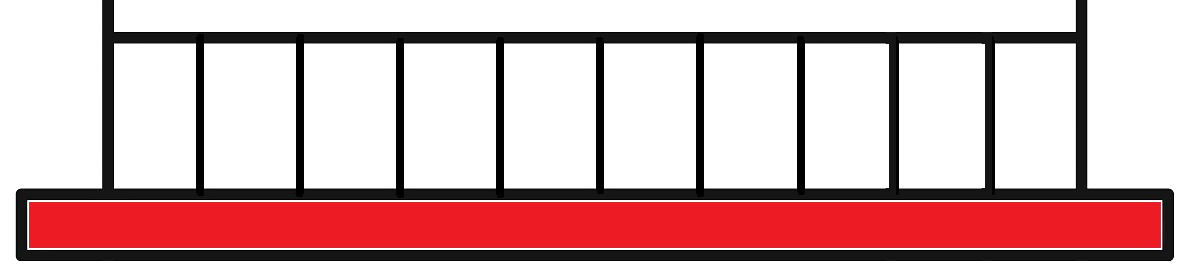
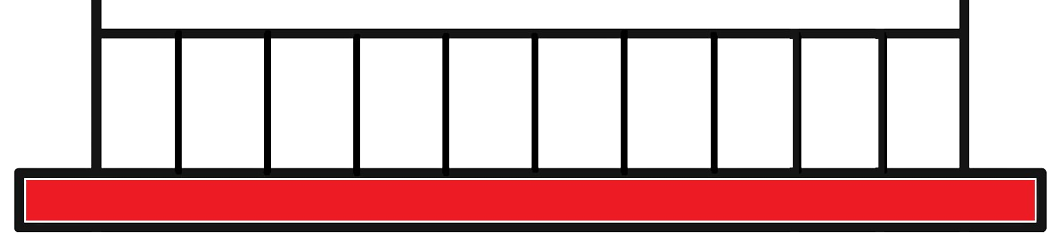
Dificuldades media e dificil

diff --git a/src/hardScripts.js b/src/hardScripts.js
@@ -1,4 +1,4 @@
-const colunasTabela = 9;
+const colunasTabela = 10;
 const linhasTabela = 4;
 const elementosTabela = [];
 let opcaoSelecionada = "";
@@ -48,8 +48,8 @@ function criarTabela() {
 function renderizaVetor() {
     for (let i = 0; i < colunasTabela; i++) {
         do {
-            const random = Math.floor(Math.random() * 10);
-            if (random > 0 && (vetor.find(item => item.valor === random) === undefined) && random < 10) {
+            const random = Math.floor(Math.random() * 11);
+            if (random > 0 && (vetor.find(item => item.valor === random) === undefined) && random < 11) {
                 var elemento = { valor: random, imagem: null, widImg: 0, heiImg: 0 };
                 switch (random) {
                     case 1:
@@ -97,6 +97,11 @@ function renderizaVetor() {
                         elemento.widImg = 44;
                         elemento.heiImg = 45;
                         break;
+                    case 10:
+                        elemento.imagem = "img/10jackfruit.png";
+                        elemento.widImg = 48;
+                        elemento.heiImg = 53;
+                        break;
                     default:
                         break;
 
@@ -131,40 +136,32 @@ function desenhaTabela() {
     html += "</table>";
 
     document.querySelector("#elemento").innerHTML = html;
-    if (ultimoIndiceComparado < 3) {
-        document.querySelector("#" + CSS.escape(0)).classList.add("esquerda");
-        document.querySelector("#" + CSS.escape(1)).classList.add("esquerda");
-        document.querySelector("#" + CSS.escape(2)).classList.add("direita");
-    } else if (ultimoIndiceComparado < 5) {
-        document.querySelector("#" + CSS.escape(3)).classList.add("esquerda");
-        document.querySelector("#" + CSS.escape(4)).classList.add("direita");
-    } else if (ultimoIndiceComparado < 7) {
-        document.querySelector("#" + CSS.escape(5)).classList.add("esquerda");
-        document.querySelector("#" + CSS.escape(6)).classList.add("direita");
-    } else if (ultimoIndiceComparado < 9) {
-        document.querySelector("#" + CSS.escape(7)).classList.add("esquerda");
-        document.querySelector("#" + CSS.escape(8)).classList.add("direita");
-    } else if (ultimoIndiceComparado < 14) {
-        document.querySelector("#" + CSS.escape(9)).classList.add("esquerda");
+    if (ultimoIndiceComparado < 10) {
+        document.querySelector("#" + CSS.escape(ultimoIndiceComparado)).classList.add("esquerda");
+        document.querySelector("#" + CSS.escape(ultimoIndiceComparado + 1)).classList.add("direita");
+    } else if (ultimoIndiceComparado < 15) {
         document.querySelector("#" + CSS.escape(10)).classList.add("esquerda");
         document.querySelector("#" + CSS.escape(11)).classList.add("esquerda");
-        document.querySelector("#" + CSS.escape(12)).classList.add("direita");
+        document.querySelector("#" + CSS.escape(12)).classList.add("esquerda");
         document.querySelector("#" + CSS.escape(13)).classList.add("direita");
-    } else if (ultimoIndiceComparado < 18) {
-        document.querySelector("#" + CSS.escape(14)).classList.add("esquerda");
+        document.querySelector("#" + CSS.escape(14)).classList.add("direita");
+    } else if (ultimoIndiceComparado < 20) {
         document.querySelector("#" + CSS.escape(15)).classList.add("esquerda");
-        document.querySelector("#" + CSS.escape(16)).classList.add("direita");
-        document.querySelector("#" + CSS.escape(17)).classList.add("direita");
-    } else if (ultimoIndiceComparado < 27) {
-        document.querySelector("#" + CSS.escape(18)).classList.add("esquerda");
-        document.querySelector("#" + CSS.escape(19)).classList.add("esquerda");
+        document.querySelector("#" + CSS.escape(16)).classList.add("esquerda");
+        document.querySelector("#" + CSS.escape(17)).classList.add("esquerda");
+        document.querySelector("#" + CSS.escape(18)).classList.add("direita");
+        document.querySelector("#" + CSS.escape(19)).classList.add("direita");
+    } else if (ultimoIndiceComparado < 30) {
         document.querySelector("#" + CSS.escape(20)).classList.add("esquerda");
         document.querySelector("#" + CSS.escape(21)).classList.add("esquerda");
         document.querySelector("#" + CSS.escape(22)).classList.add("esquerda");
-        document.querySelector("#" + CSS.escape(23)).classList.add("direita");
-        document.querySelector("#" + CSS.escape(24)).classList.add("direita");
+        document.querySelector("#" + CSS.escape(23)).classList.add("esquerda");
+        document.querySelector("#" + CSS.escape(24)).classList.add("esquerda");
         document.querySelector("#" + CSS.escape(25)).classList.add("direita");
         document.querySelector("#" + CSS.escape(26)).classList.add("direita");
+        document.querySelector("#" + CSS.escape(27)).classList.add("direita");
+        document.querySelector("#" + CSS.escape(28)).classList.add("direita");
+        document.querySelector("#" + CSS.escape(29)).classList.add("direita");
     } else {
         document.querySelectorAll("td").classList.remove("esquerda");
         document.querySelectorAll("td").classList.remove("direita");
@@ -195,22 +192,18 @@ function recuperaMenorValor(vetor) {
 }
 
 function efetuaPrimeiraRodadaComparativa() {
-    if (ultimoIndiceComparado == 0) {
-        esquerda = [elementosTabela[ultimoIndiceComparado], elementosTabela[ultimoIndiceComparado + 1]];
-        direita = [elementosTabela[ultimoIndiceComparado + 2]];
-    } else if (((ultimoIndiceComparado % 2) != 0 && ultimoIndiceComparado > 2)) {
-        esquerda = [elementosTabela[ultimoIndiceComparado]];
-        direita = [elementosTabela[ultimoIndiceComparado + 1]];
-    }
-    if (opcaoSelecionada == comparaValores(esquerda, direita)) {
+    esquerda = elementosTabela[ultimoIndiceComparado];
+    direita = elementosTabela[ultimoIndiceComparado + 1];
+
+    if (opcaoSelecionada == comparaValores([esquerda], [direita])) {
         if (opcaoSelecionada == "E") {
-            elementosTabela[ultimoIndiceComparado + colunasTabela] = buscaMenorNoVetor(esquerda);
-            removeMenorDoArray(esquerda);
+            elementosTabela[ultimoIndiceComparado + colunasTabela] = esquerda;
+            elementosTabela[ultimoIndiceComparado + colunasTabela + 1] = direita;
         } else {
-            elementosTabela[ultimoIndiceComparado + colunasTabela] = buscaMenorNoVetor(direita);
-            removeMenorDoArray(direita);
+            elementosTabela[ultimoIndiceComparado + colunasTabela] = direita;
+            elementosTabela[ultimoIndiceComparado + colunasTabela + 1] = esquerda;
         }
-        ultimoIndiceComparado = ultimoIndiceComparado + 1;
+        ultimoIndiceComparado = ultimoIndiceComparado + 2;
         document.querySelector("#" + CSS.escape(ultimoIndiceComparado)).classList.remove("esquerda");
         document.querySelector("#" + CSS.escape(ultimoIndiceComparado + 1)).classList.remove("direita");
         pontuacao += 5;
@@ -222,12 +215,12 @@ function efetuaPrimeiraRodadaComparativa() {
 }
 
 function efetuaSegundaRodadaComparativa() {
-    if (ultimoIndiceComparado == 9) {
+    if (ultimoIndiceComparado == 10) {
         esquerda = [elementosTabela[ultimoIndiceComparado], elementosTabela[ultimoIndiceComparado + 1], elementosTabela[ultimoIndiceComparado + 2]];
         direita = [elementosTabela[ultimoIndiceComparado + 3], elementosTabela[ultimoIndiceComparado + 4]];
-    } else if (ultimoIndiceComparado == 14) {
-        esquerda = [elementosTabela[ultimoIndiceComparado], elementosTabela[ultimoIndiceComparado + 1]];
-        direita = [elementosTabela[ultimoIndiceComparado + 2], elementosTabela[ultimoIndiceComparado + 3]];
+    } else if (ultimoIndiceComparado == 15) {
+        esquerda = [elementosTabela[ultimoIndiceComparado], elementosTabela[ultimoIndiceComparado + 1], elementosTabela[ultimoIndiceComparado + 2]];
+        direita = [elementosTabela[ultimoIndiceComparado + 3], elementosTabela[ultimoIndiceComparado + 4]];
     }
     if (opcaoSelecionada == comparaValores(esquerda, direita)) {
         if (opcaoSelecionada == "E") {
@@ -251,9 +244,9 @@ function efetuaSegundaRodadaComparativa() {
 }
 
 function efetuaTerceiraRodadaComparativa() {
-    if (ultimoIndiceComparado == 18) {
+    if (ultimoIndiceComparado == 20) {
         esquerda = [elementosTabela[ultimoIndiceComparado], elementosTabela[ultimoIndiceComparado + 1], elementosTabela[ultimoIndiceComparado + 2], elementosTabela[ultimoIndiceComparado + 3], elementosTabela[ultimoIndiceComparado + 4]];
-        direita = [elementosTabela[ultimoIndiceComparado + 5], elementosTabela[ultimoIndiceComparado + 6], elementosTabela[ultimoIndiceComparado + 7], elementosTabela[ultimoIndiceComparado + 8]];
+        direita = [elementosTabela[ultimoIndiceComparado + 5], elementosTabela[ultimoIndiceComparado + 6], elementosTabela[ultimoIndiceComparado + 7], elementosTabela[ultimoIndiceComparado + 8], elementosTabela[ultimoIndiceComparado + 9]];
     }
     if (opcaoSelecionada == comparaValores(esquerda, direita)) {
         if (opcaoSelecionada == "E") {
@@ -290,13 +283,13 @@ function chacoalhaTela() {
 
 function escolheOpcao(opcao) {
     opcaoSelecionada = opcao;
-    if (ultimoIndiceComparado < 9) {
+    if (ultimoIndiceComparado < 10) {
         desenhaTabela();
         efetuaPrimeiraRodadaComparativa();
-    } else if (ultimoIndiceComparado < 18) {
+    } else if (ultimoIndiceComparado < 20) {
         desenhaTabela();
         efetuaSegundaRodadaComparativa();
-    } else if (ultimoIndiceComparado < 27) {
+    } else if (ultimoIndiceComparado < 30) {
         desenhaTabela();
         efetuaTerceiraRodadaComparativa();
     }

diff --git a/src/hardStyles.css b/src/hardStyles.css
@@ -1,0 +1,163 @@
+body {
+    background-image: url("img/bgSortingGame.png");
+    background-size: cover;
+}
+
+.botao-direita {
+    border: 0;
+    line-height: 2.5;
+    padding: 0 20px;
+    font-size: 1rem;
+    text-align: center;
+    color: #fff;
+    text-shadow: 1px 1px 1px #000;
+    border-radius: 10px;
+    background-color: rgba(220, 0, 0, 1);
+    background-image: linear-gradient(to top left, rgba(0, 0, 0, .2), rgba(0, 0, 0, .2) 30%, rgba(0, 0, 0, 0));
+    box-shadow: inset 2px 2px 3px rgba(255, 255, 255, .6), inset -2px -2px 3px rgba(0, 0, 0, .6);
+}
+
+.botao-direita:hover {
+    background-color: rgba(255, 0, 0, 1);
+}
+
+.botao-direita:active {
+    box-shadow: inset -2px -2px 3px rgba(255, 255, 255, .6), inset 2px 2px 3px rgba(0, 0, 0, .6);
+}
+
+.botao-esquerda {
+    border: 0;
+    line-height: 2.5;
+    padding: 0 20px;
+    font-size: 1rem;
+    text-align: center;
+    color: #fff;
+    text-shadow: 1px 1px 1px #000;
+    border-radius: 10px;
+    background-color: rgba(0, 120, 0, 1);
+    background-image: linear-gradient(to top left, rgba(0, 0, 0, .2), rgba(0, 0, 0, .2) 30%, rgba(0, 0, 0, 0));
+    box-shadow: inset 2px 2px 3px rgba(255, 255, 255, .6), inset -2px -2px 3px rgba(0, 0, 0, .6);
+}
+
+.botao-esquerda:hover {
+    background-color: rgba(0, 155, 0, 1);
+}
+
+.botao-esquerda:active {
+    box-shadow: inset -2px -2px 3px rgba(255, 255, 255, .6), inset 2px 2px 3px rgba(0, 0, 0, .6);
+}
+
+table {
+    left: 65px;
+    top: 160px;
+    border-collapse: collapse;
+    /* border: 1px solid black; */
+    position: absolute;
+    border-collapse: separate;
+    border-spacing: 0px 51px;
+    z-index: -1;
+}
+
+table.tr {
+    margin-top: 100px;
+}
+
+td {
+    width: 48px;
+    height: 82px;
+    /* border: 1px solid black; */
+    text-align: center;
+    vertical-align: center;
+    font-size: 18px;
+    position: relative;
+    background-color: white;
+}
+
+.pixel-index {
+    font-size: 10px;
+    display: inline-block;
+    position: absolute;
+    top: 2px;
+    right: 2px;
+    color: #777;
+}
+
+td.pixel {
+    width: 4px;
+    height: 4px;
+    border: 0;
+}
+
+.esquerda {
+    background-color: #c4fddf;
+}
+
+.direita {
+    background-color: #f8c2bc;
+}
+
+#jogo.tremendo {
+    animation: shake 0.82s cubic-bezier(.36, .07, .19, .97) both;
+    transform: translate3d(0, 0, 0);
+    backface-visibility: hidden;
+    perspective: 1000px;
+}
+
+@keyframes shake {
+    10%,
+    90% {
+        transform: translate3d(-1px, 0, 0);
+    }
+    20%,
+    80% {
+        transform: translate3d(2px, 0, 0);
+    }
+    30%,
+    50%,
+    70% {
+        transform: translate3d(-4px, 0, 0);
+    }
+    40%,
+    60% {
+        transform: translate3d(4px, 0, 0);
+    }
+}
+
+.cabecalhoPrateleira {
+    background-image: url("img/headerPrateleiraDificil.png");
+    width: 614px;
+    height: 189px;
+    background-size: cover;
+}
+
+.linhaPrateleira {
+    background-image: url("img/linhaPrateleiraDificil.png");
+    width: 614px;
+    height: 131px;
+    background-size: cover;
+}
+
+.rodapePrateleira {
+    background-image: url("img/rodapePrateleiraDificil.png");
+    width: 620;
+    height: 102px;
+    background-size: cover;
+}
+
+.prateleira {
+    position: absolute;
+}
+
+#resposta {
+    position: absolute;
+    top: 1500px;
+    left: 400px;
+}
+
+#pontuacao {
+    position: absolute;
+    top: 760px;
+    left: 200px;
+    color: white;
+    font-size: 25px;
+}

diff --git a/src/hard.html b/src/hard.html
@@ -1,0 +1,32 @@
+<html>
+
+<head>
+    <title>Sorting Game - Médio</title>
+    <link rel="stylesheet" href="hardStyles.css">
+</head>
+
+<body>
+    <div class="prateleira">
+        <div class="cabecalhoPrateleira"></div>
+        <div class="linhaPrateleira"></div>
+        <div class="linhaPrateleira"></div>
+        <div class="linhaPrateleira"></div>
+        <div class="linhaPrateleira"></div>
+        <div class="rodapePrateleira"></div>
+    </div>
+    <div id="jogo">
+        <div id="elemento"></div>
+        <!-- <div id="resposta">
+            <input class="botao-esquerda" type="button" value="Esquerda" onclick="escolheOpcao('E')">
+            <input class="botao-direita" type="button" value="Direita" onclick="escolheOpcao('D')">
+        </div> -->
+        <div id="pontuacao">
+            <span>Pontuação: </span>
+            <span id="pontuacaoContainer"></span>
+        </div>
+    </div>
+
+    <script src="hardScripts.js"></script>
+</body>
+
+</html>

diff --git a/src/easyScripts.js b/src/easyScripts.js
@@ -148,7 +148,9 @@ function desenhaTabela() {
         document.querySelector("#" + CSS.escape(21)).classList.add("direita");
         document.querySelector("#" + CSS.escape(22)).classList.add("direita");
         document.querySelector("#" + CSS.escape(23)).classList.add("direita");
-
+    } else {
+        document.querySelectorAll("td").classList.remove("esquerda");
+        document.querySelectorAll("td").classList.remove("direita");
     }
 }
 

diff --git a/src/index.html b/src/index.html
@@ -25,7 +25,7 @@
     <div class="botoes-dificuldade">
         <button class="custom-btn" onclick="location.replace('easy.html')">Fácil</button>
         <button class="custom-btn" onclick="location.replace('medium.html')">Médio</button>
-        <button class="custom-btn">Difícil</button>
+        <button class="custom-btn" onclick="location.replace('hard.html')">Difícil</button>
     </div>
 </body>
 
